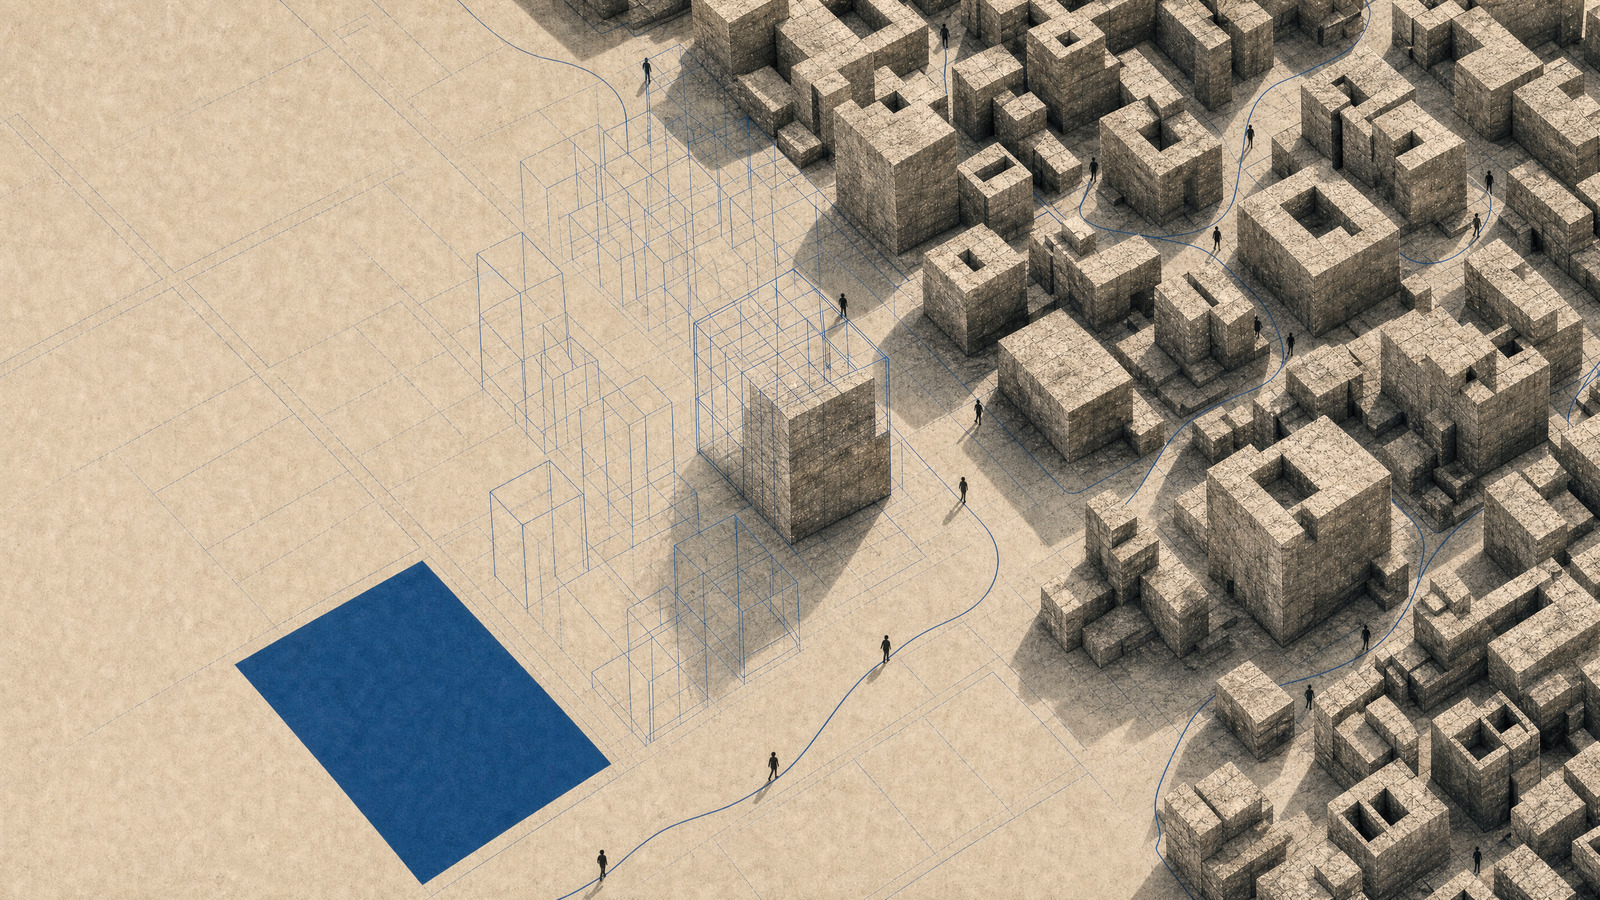
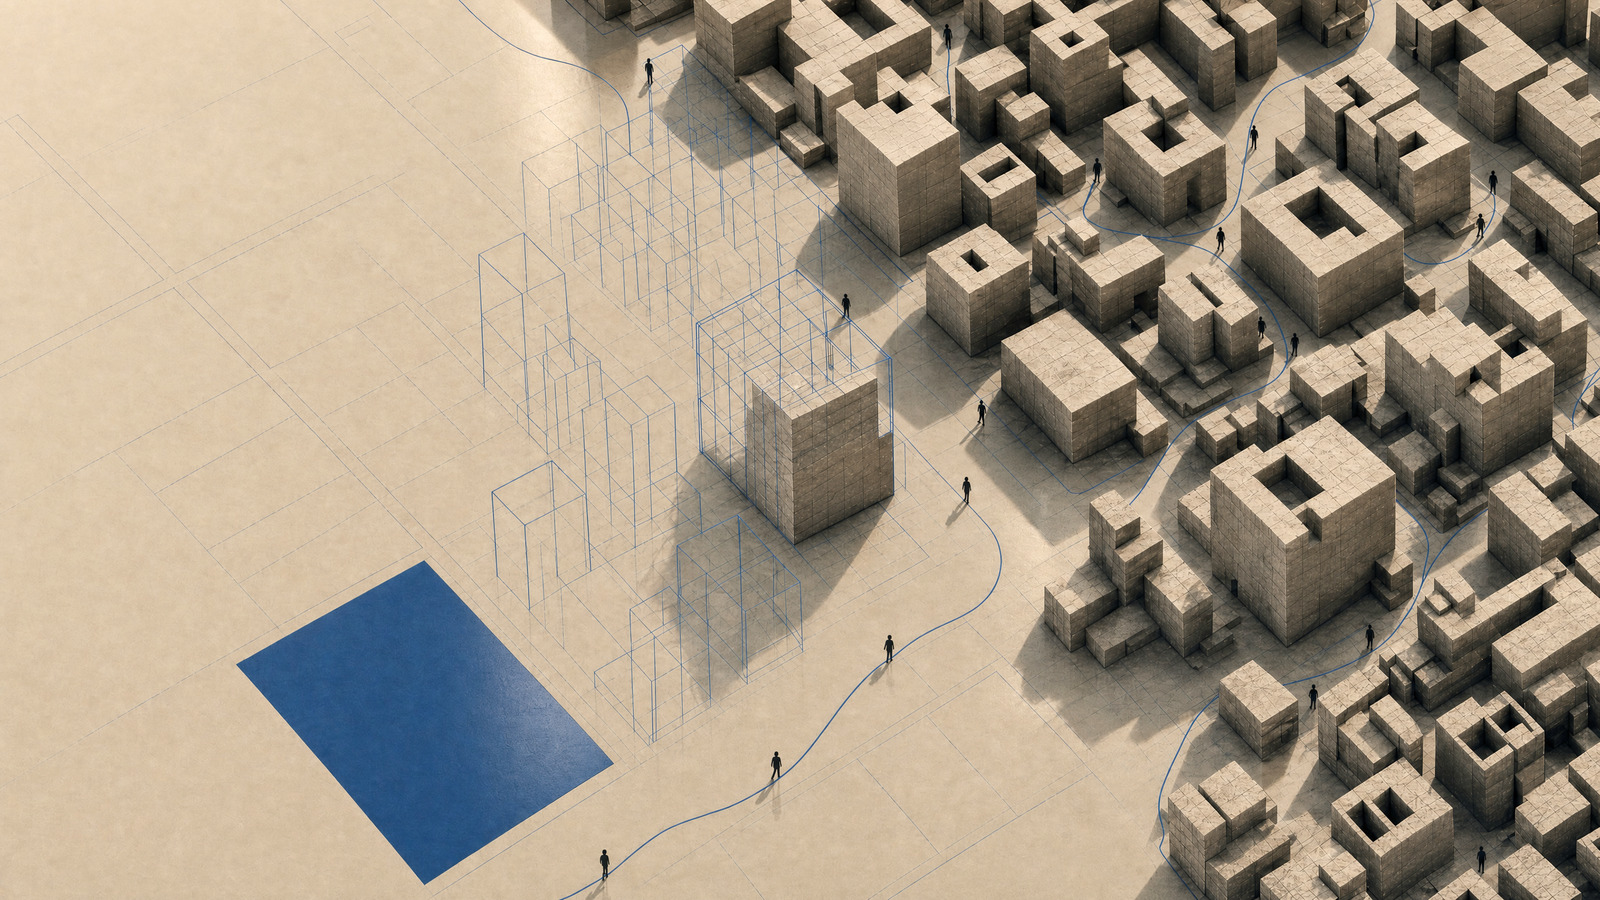
시리즈 03 커버 v15 — 새틴 마감 통일 + 대표 블루 채도 정합 / 리드 문구 수정
네 컷 모두 구성·소재 동결, 마감만 교체: 거친 그레인을 걷고 매끈한
매트 위에 은은한 새틴 반사(바닥의 사물 반영, 곡면의 하이라이트)를
부분 배치. 대표의 블루 채도를 포스팅 3장의 블루에 계측 정합
(중앙값 S 0.643→0.623, 목표 0.619 — HSV 블루 마스크만 보정).

시리즈 페이지 리드: '2024년 여름 부천에서 한 발표' →
'2024년 여름 BIFAN+ 컨퍼런스에서 한 발표'.

diff --git a/series/autonomous-worlds/index.html b/series/autonomous-worlds/index.html
@@ -303,7 +303,7 @@ main.idx-wide{width:min(100%,calc(66rem + var(--gutter)*2))}
 <main id="main" class="idx-wide"><div class="idx">
   <p class="meta-label">시리즈 03</p>
   <h1>자율 세계,<br>스스로 규칙을 만드는 세계의 등장</h1>
-  <p class="lead">2024년 여름 부천에서 한 발표, 자율 세계와 새로운 창작 문화 이야기를 2년 뒤에 다시 정리했다.</p>
+  <p class="lead">2024년 여름 BIFAN+ 컨퍼런스에서 한 발표, 자율 세계와 새로운 창작 문화 이야기를 2년 뒤에 다시 정리했다.</p>
   <div class="idx-grid">
     <div class="cta">
       <series-nav data-series="autonomous-worlds"></series-nav>
